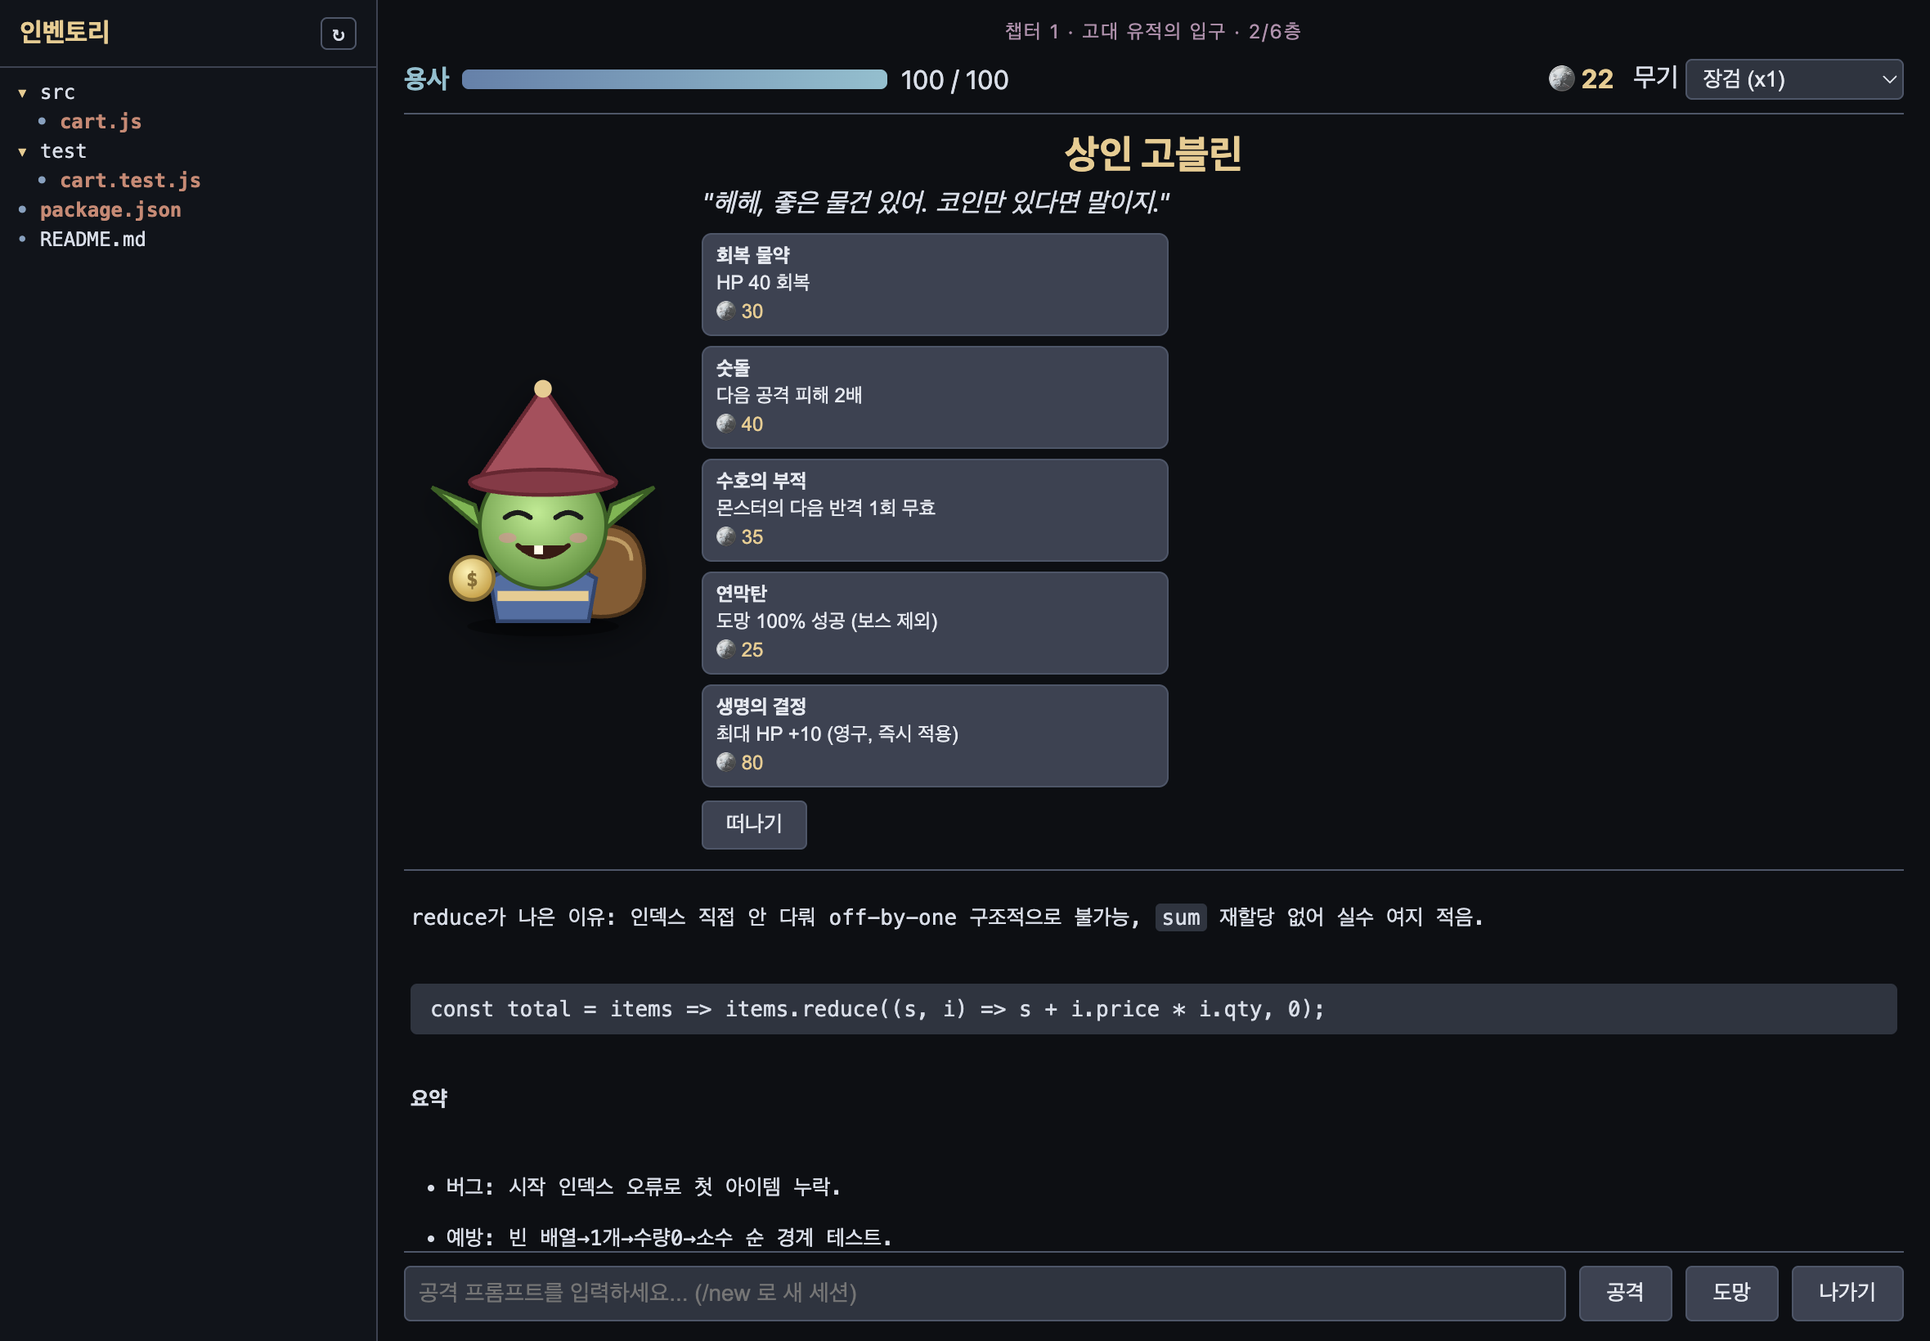
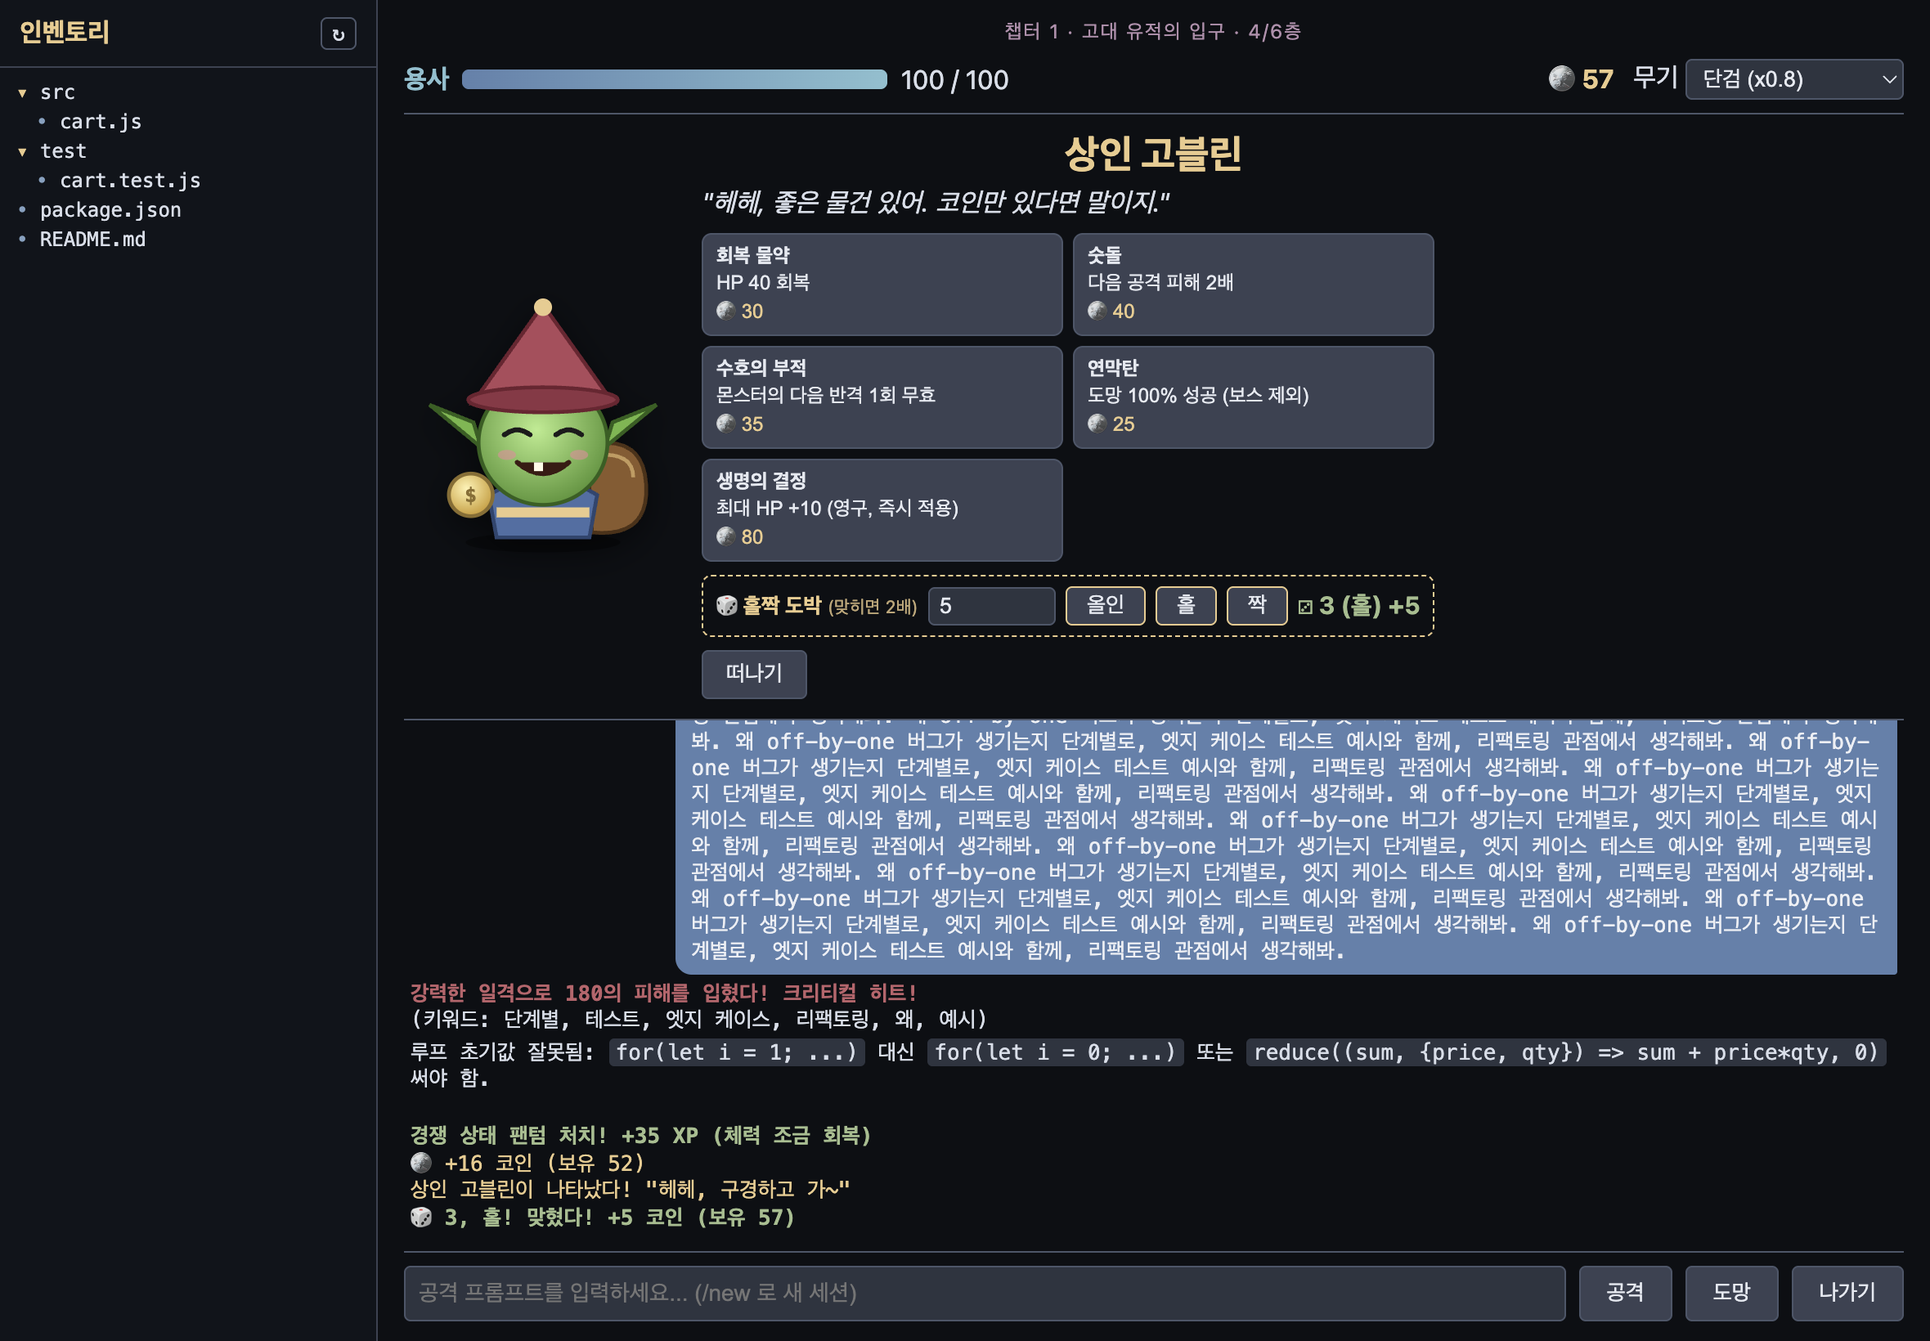
feat(merchant): odd/even dice gambling with coins
/bet odd|even|홀|짝 <coins> at the merchant; win pays double, loss takes the stake.
GUI bet box with all-in, dice result pop; README + merchant screenshot updated.

Changed region(s): [[0.2165, 0.1555, 0.9898, 0.9329], [0.3712, 0.2488, 0.4949, 0.311], [0.0309, 0.1244, 0.0928, 0.1866]]

diff --git a/electron/renderer/renderer.js b/electron/renderer/renderer.js
@@ -57,6 +57,8 @@ const merchantArtEl = $('merchant-art');
 const merchantItemsEl = $('merchant-items');
 const merchantLeaveBtn = $('merchant-leave');
 const exitBtn = $('exit-btn');
+const betAmountInput = $('bet-amount');
+const betResultEl = $('bet-result');
 const exitOverlay = $('exit-overlay');
 const exitConfirmBtn = $('exit-confirm');
 const exitCancelBtn = $('exit-cancel');
@@ -271,6 +273,9 @@ function openMerchant(event) {
   fleeBtn.disabled = true; // nothing to flee from in the shop
   merchantPanel.hidden = false;
   merchantArtEl.innerHTML = merchantSvg();
+  betResultEl.textContent = '';
+  betAmountInput.max = String(coins);
+  betAmountInput.value = String(Math.max(1, Math.min(10, coins)));
   merchantItemsEl.textContent = '';
   for (const item of event.items) {
     const btn = document.createElement('button');
@@ -655,6 +660,27 @@ function renderBattleEvent(event) {
     case 'purchaseFailed':
       appendLog(`살 수 없다: ${event.reason}`, 'error');
       break;
+    case 'betResult': {
+      coins = event.coins;
+      renderCoins();
+      betAmountInput.max = String(coins);
+      const face = '⚀⚁⚂⚃⚄⚅'[event.roll - 1];
+      const parity = event.roll % 2 ? '홀' : '짝';
+      betResultEl.textContent = `${face} ${event.roll} (${parity}) ${event.won ? `+${event.amount}` : `-${event.amount}`}`;
+      betResultEl.className = `bet-result ${event.won ? 'win' : 'lose'}`;
+      void betResultEl.offsetWidth; // restart the pop animation
+      betResultEl.classList.add('rolled');
+      appendLog(
+        event.won
+          ? `🎲 ${event.roll}, ${parity}! 맞혔다! +${event.amount} 코인 (보유 ${event.coins})`
+          : `🎲 ${event.roll}, ${parity}... 틀렸다. -${event.amount} 코인 (보유 ${event.coins}) 상인 고블린: "헤헤헤~"`,
+        event.won ? 'victory' : 'error',
+      );
+      break;
+    }
+    case 'betFailed':
+      appendLog(`걸 수 없다: ${event.reason}`, 'error');
+      break;
     case 'merchantClosed':
       appendLog('상인 고블린: "또 와~"', 'story-line');
       closeMerchant();
@@ -752,6 +778,13 @@ attackForm.addEventListener('submit', (e) => {
 
 fleeBtn.addEventListener('click', () => window.promptBattle.submitPrompt('/flee'));
 merchantLeaveBtn.addEventListener('click', () => window.promptBattle.submitPrompt('/leave'));
+
+const bet = (choice) => window.promptBattle.submitPrompt(`/bet ${choice} ${Math.floor(Number(betAmountInput.value) || 0)}`);
+$('bet-odd').addEventListener('click', () => bet('odd'));
+$('bet-even').addEventListener('click', () => bet('even'));
+$('bet-all').addEventListener('click', () => {
+  betAmountInput.value = String(coins);
+});
 
 exitBtn.addEventListener('click', () => {
   exitOverlay.hidden = false;

diff --git a/src/battle.ts b/src/battle.ts
@@ -38,6 +38,8 @@ export type BattleEvent =
   | { type: 'purchased'; itemId: string; coins: number }
   | { type: 'purchaseFailed'; itemId: string; reason: string }
   | { type: 'merchantClosed' }
+  | { type: 'betResult'; choice: 'odd' | 'even'; roll: number; won: boolean; amount: number; coins: number }
+  | { type: 'betFailed'; reason: string }
   | { type: 'bagChanged'; bag: Record<string, number> }
   | { type: 'itemUsed'; itemId: string }
   | { type: 'itemUseFailed'; itemId: string }
@@ -169,6 +171,26 @@ export async function runDungeon(deps: BattleDeps): Promise<BattleSummary> {
     deps.onBattleEvent({ type: 'itemUsed', itemId: id });
   };
 
+  // The merchant's odd/even dice game: `/bet odd|even|홀|짝 <coins>`.
+  // A win pays the stake back double (net +stake); a loss takes it.
+  const placeBet = (input: string) => {
+    const match = /^\/bet\s+(\S+)\s+(\d+)$/.exec(input);
+    const choice = match && ({ odd: 'odd', 홀: 'odd', even: 'even', 짝: 'even' } as const)[match[1] as 'odd'];
+    const amount = match ? Number(match[2]) : 0;
+    if (!choice) {
+      deps.onBattleEvent({ type: 'betFailed', reason: '홀 또는 짝에 걸어야 한다' });
+      return;
+    }
+    if (amount < 1 || amount > coins) {
+      deps.onBattleEvent({ type: 'betFailed', reason: `1~${coins} 코인 사이로 걸어야 한다` });
+      return;
+    }
+    const roll = Math.floor(random() * 6) + 1;
+    const won = (roll % 2 === 1) === (choice === 'odd');
+    coins += won ? amount : -amount;
+    deps.onBattleEvent({ type: 'betResult', choice, roll, won, amount, coins });
+  };
+
   // Returns false if the player left the dungeon from the shop.
   const visitMerchant = async (): Promise<boolean> => {
     deps.onBattleEvent({ type: 'merchantOpen', coins, items: ITEMS });
@@ -177,6 +199,10 @@ export async function runDungeon(deps: BattleDeps): Promise<BattleSummary> {
       if (raw === null) return false;
       const input = raw.trim();
       if (input === '/quit') return false;
+      if (input.startsWith('/bet ')) {
+        placeBet(input);
+        continue;
+      }
       if (input.startsWith('/buy ')) {
         const id = input.slice('/buy '.length).trim();
         const item = getItem(id);

diff --git a/test/battle.test.ts b/test/battle.test.ts
@@ -487,3 +487,27 @@ test('a resumed session that fails before ever succeeding is dropped for a fresh
   assert.deepEqual(seen, ['stale', undefined]);
   assert.ok(events.some((e) => e.type === 'sessionReset'));
 });
+
+test('odd/even bet at the merchant: a win pays the stake back double', async () => {
+  // rolls: merchant appears (0.1), die = floor(0.4*6)+1 = 3 (odd), then no more merchants
+  const { deps, events } = makeFakeDeps([ONE_SHOT_PROMPT, '/bet odd 5', '/leave', '/quit']);
+  const summary = await runDungeon({ ...deps, random: seq(0.1, 0.4, 0.99) });
+  assert.ok(events.some((e) => e.type === 'betResult' && e.choice === 'odd' && e.roll === 3 && e.won && e.amount === 5 && e.coins === 15));
+  assert.equal(summary.coins, 15, '10 from the clear, +5 net win');
+});
+
+test('a losing bet takes the stake', async () => {
+  // die = floor(0.2*6)+1 = 2 (even) vs odd
+  const { deps, events } = makeFakeDeps([ONE_SHOT_PROMPT, '/bet odd 4', '/leave', '/quit']);
+  const summary = await runDungeon({ ...deps, random: seq(0.1, 0.2, 0.99) });
+  assert.ok(events.some((e) => e.type === 'betResult' && e.roll === 2 && !e.won && e.coins === 6));
+  assert.equal(summary.coins, 6);
+});
+
+test('bets must be a whole amount between 1 and your coins; Korean 홀/짝 work too', async () => {
+  const { deps, events } = makeFakeDeps([ONE_SHOT_PROMPT, '/bet odd 11', '/bet odd 0', '/bet red 1', '/bet 짝 10', '/leave', '/quit']);
+  const summary = await runDungeon({ ...deps, random: seq(0.1, 0.9, 0.99) }); // die 6 = even
+  assert.equal(events.filter((e) => e.type === 'betFailed').length, 3);
+  assert.ok(events.some((e) => e.type === 'betResult' && e.choice === 'even' && e.won && e.coins === 20));
+  assert.equal(summary.coins, 20);
+});

diff --git a/src/cli-render.ts b/src/cli-render.ts
@@ -64,12 +64,19 @@ export function formatBattleEvent(event: BattleEvent): string {
         colorize(`\nA merchant goblin appears! You have ${event.coins} coins.`, 'bold') +
         '\n' +
         event.items.map((item) => `  /buy ${item.id} — ${item.name}: ${item.description} (${item.price})`).join('\n') +
-        '\n  /leave to move on\n'
+        '\n  /bet odd|even <coins> to gamble, /leave to move on\n'
       );
     case 'purchased':
       return colorize(`Bought ${event.itemId}. ${event.coins} coins left.`, 'green') + '\n';
     case 'purchaseFailed':
       return colorize(`Can't buy ${event.itemId}: ${event.reason}`, 'red') + '\n';
+    case 'betResult':
+      return colorize(
+        `Die shows ${event.roll} (${event.roll % 2 ? 'odd' : 'even'}) — you ${event.won ? `win ${event.amount}` : `lose ${event.amount}`}. ${event.coins} coins.`,
+        event.won ? 'green' : 'red',
+      ) + '\n';
+    case 'betFailed':
+      return colorize(`Bet refused: ${event.reason}`, 'red') + '\n';
     case 'merchantClosed':
       return colorize('The merchant waves goodbye.', 'cyan') + '\n';
     case 'bagChanged':

diff --git a/electron/renderer/style.css b/electron/renderer/style.css
@@ -676,3 +676,57 @@ body {
   background: #bf616a;
   border-color: #bf616a;
 }
+
+.gamble {
+  display: flex;
+  flex-wrap: wrap;
+  align-items: center;
+  gap: 6px;
+  margin-bottom: 8px;
+  padding: 6px 8px;
+  border: 1px dashed #ebcb8b;
+  border-radius: 6px;
+}
+.gamble-title {
+  color: #ebcb8b;
+  font-weight: bold;
+  font-size: 13px;
+}
+.gamble-title small {
+  font-weight: normal;
+  opacity: 0.8;
+}
+#bet-amount {
+  width: 64px;
+  padding: 3px 6px;
+  background: #2e3440;
+  color: #e5e9f0;
+  border: 1px solid #4c566a;
+  border-radius: 4px;
+}
+.gamble button {
+  padding: 3px 12px;
+  background: #3b4252;
+  color: #e5e9f0;
+  border: 1px solid #ebcb8b;
+  border-radius: 4px;
+  cursor: pointer;
+}
+.bet-result {
+  font-weight: bold;
+  font-size: 15px;
+}
+.bet-result.win {
+  color: #a3be8c;
+}
+.bet-result.lose {
+  color: #bf616a;
+}
+.bet-result.rolled {
+  animation: dice-pop 0.4s ease-out;
+}
+@keyframes dice-pop {
+  0% { transform: scale(0.4) rotate(-90deg); opacity: 0; }
+  70% { transform: scale(1.25) rotate(10deg); opacity: 1; }
+  100% { transform: scale(1) rotate(0); }
+}

diff --git a/electron/renderer/index.html b/electron/renderer/index.html
@@ -71,6 +71,14 @@
             <div>
               <p class="merchant-greeting">"헤헤, 좋은 물건 있어. 코인만 있다면 말이지."</p>
               <div id="merchant-items" class="merchant-items"></div>
+              <div class="gamble">
+                <span class="gamble-title">🎲 홀짝 도박 <small>(맞히면 2배)</small></span>
+                <input type="number" id="bet-amount" min="1" step="1" value="10" />
+                <button type="button" id="bet-all">올인</button>
+                <button type="button" id="bet-odd">홀</button>
+                <button type="button" id="bet-even">짝</button>
+                <span id="bet-result" class="bet-result"></span>
+              </div>
               <button type="button" id="merchant-leave">떠나기</button>
             </div>
           </div>

diff --git a/test/cli-render.test.ts b/test/cli-render.test.ts
@@ -75,6 +75,8 @@ test('every event type formats to a string (never undefined, which would crash s
     { type: 'purchased', itemId: 'potion', coins: 0 },
     { type: 'purchaseFailed', itemId: 'crystal', reason: 'poor' },
     { type: 'merchantClosed' },
+    { type: 'betResult', choice: 'odd', roll: 3, won: true, amount: 5, coins: 15 },
+    { type: 'betFailed', reason: 'x' },
     { type: 'bagChanged', bag: { potion: 1 } },
     { type: 'itemUsed', itemId: 'potion' },
     { type: 'itemUseFailed', itemId: 'potion' },

diff --git a/README.md b/README.md
@@ -15,7 +15,7 @@
 - **보기 편한 AI 응답** — 마크다운으로 렌더링되고, AI가 질문 + 목록으로 물어보면 클릭 가능한 선택지로 바뀐다.
 - **세션 관리** — 기본은 새 Claude 세션으로 시작. 폴더를 고를 때 그 폴더의 이전 세션이 있으면 "이전 세션 이어가기"를 선택할 수 있다. 컨텍스트가 80%를 넘으면 새 세션으로 이어갈 수 있는 `/new ...` 프롬프트를 띄워준다.
 - **대화 기록** — 내가 친 프롬프트와 AI 답변이 폴더별로 저장되고, 다음에 그 폴더로 들어가면 이전 기록이 먼저 보인다.
-- **코인과 상인 고블린** — 층을 클리어하면 코인 획득 (보스는 3배). 클리어 후 가끔(30%) 상인 고블린이 나타난다: 회복 물약(HP 40), 숫돌(다음 공격 2배), 수호의 부적(반격 1회 무효), 연막탄(도망 100%), 생명의 결정(최대 HP +10 영구). 가방의 아이템은 턴 소모 없이 사용.
+- **코인과 상인 고블린** — 층을 클리어하면 코인 획득 (보스는 3배). 클리어 후 가끔(30%) 상인 고블린이 나타난다: 회복 물약(HP 40), 숫돌(다음 공격 2배), 수호의 부적(반격 1회 무효), 연막탄(도망 100%), 생명의 결정(최대 HP +10 영구). 가방의 아이템은 턴 소모 없이 사용. 상인 앞에서 **홀짝 도박**도 가능: 코인을 걸고 홀/짝을 고르면 주사위를 굴려 맞히면 2배, 틀리면 건 코인을 잃는다.
 - **도망 / 나가기** — 도망은 50% 확률: 성공하면 보상 없이 다음 층, 실패하면 한 턴을 날리고 반격을 맞는다. 보스에게선 도망 불가. 나가기 버튼은 "오늘 모험 종료하기"(진행 층수·코인·가방·세션 저장, 다음에 그 층부터 이어하기)와 "이어하기"(계속 플레이) 중 선택.
 
 ## 화면 둘러보기
@@ -39,7 +39,7 @@
 ### 3. 상인 고블린
 ![상인 고블린](docs/screenshots/merchant.png)
 
-층을 클리어하면 가끔 나타난다. 아이템을 클릭하면 코인으로 구매하고, `떠나기`로 다음 층으로 간다. 상인 앞에서 그냥 프롬프트를 치면 상점을 닫고 다음 몬스터를 그 프롬프트로 바로 공격한다.
+층을 클리어하면 가끔 나타난다. 아이템을 클릭하면 코인으로 구매한다. 아래 🎲 홀짝 도박에서 걸 코인을 정하고(`올인`도 가능) `홀`/`짝`을 누르면 주사위 결과가 바로 나온다. 다 끝나면 `떠나기`로 다음 층으로 간다. 상인 앞에서 그냥 프롬프트를 치면 상점을 닫고 다음 몬스터를 그 프롬프트로 바로 공격한다.
 
 ### 4. 나가기
 ![나가기](docs/screenshots/exit.png)
@@ -67,7 +67,7 @@ npm link
 promptbattle --difficulty normal
 ```
 
-작업할 프로젝트 폴더 안에서 실행. `/quit`로 나가기, `/flee`로 도망(50%), `/new <프롬프트>`로 새 세션 시작, `/use <아이템>`으로 아이템 사용, 상인 앞에서는 `/buy <아이템>` / `/leave`. Node.js 22.18.0 이상 필요 (TypeScript를 빌드 없이 바로 실행). npm에 배포된 패키지를 `npm install -g`로 설치하면 동작하지 않는다 — Node가 `node_modules` 안의 `.ts`는 실행하지 않기 때문. clone 후 `npm link`로 설치할 것.
+작업할 프로젝트 폴더 안에서 실행. `/quit`로 나가기, `/flee`로 도망(50%), `/new <프롬프트>`로 새 세션 시작, `/use <아이템>`으로 아이템 사용, 상인 앞에서는 `/buy <아이템>`, `/bet 홀|짝 <코인>`, `/leave`. Node.js 22.18.0 이상 필요 (TypeScript를 빌드 없이 바로 실행). npm에 배포된 패키지를 `npm install -g`로 설치하면 동작하지 않는다 — Node가 `node_modules` 안의 `.ts`는 실행하지 않기 때문. clone 후 `npm link`로 설치할 것.
 
 ## 설정
 

diff --git a/README.en.md b/README.en.md
@@ -15,7 +15,7 @@ A turn-based RPG wrapped around real AI coding. Every prompt you type is an atta
 - **Readable AI output** — replies render as markdown; a question followed by a list becomes clickable choices.
 - **Sessions** — games start a fresh Claude session by default; when a folder has a saved session you can choose to resume it. When the context passes 80%, the game shows a ready-made `/new ...` prompt to continue in a new session.
 - **Chat history** — your prompts and the AI's replies are saved per folder and shown when you open that folder again.
-- **Coins & merchant goblin** — clearing a floor earns coins (bosses pay 3x). After a clear, a merchant goblin sometimes (30%) appears selling a potion (+40 HP), whetstone (next attack x2), amulet (blocks one counterattack), smoke bomb (guaranteed escape) and life crystal (+10 max HP, permanent). Bag items are free actions.
+- **Coins & merchant goblin** — clearing a floor earns coins (bosses pay 3x). After a clear, a merchant goblin sometimes (30%) appears selling a potion (+40 HP), whetstone (next attack x2), amulet (blocks one counterattack), smoke bomb (guaranteed escape) and life crystal (+10 max HP, permanent). Bag items are free actions. The merchant also runs an **odd/even dice game**: bet coins on odd or even, win double or lose the stake.
 - **Flee vs. Exit** — fleeing has a 50% chance: success skips to the next floor with no reward, failure wastes the turn and draws a counterattack. You can't flee a boss. The Exit button offers "end today's adventure" (saves floor, coins, bag and session so you resume from that floor) or "keep playing".
 
 ## Tour
@@ -39,7 +39,7 @@ The capture is a real turn: the prompt asked (in Korean) to fix a bug in `cart.j
 ### 3. Merchant goblin
 ![Merchant goblin](docs/screenshots/merchant.png)
 
-The merchant sometimes shows up after a clear. Click an item to buy it with coins, or `떠나기` (leave) to move on. Typing a prompt here closes the shop and attacks the next monster with it.
+The merchant sometimes shows up after a clear. Click an item to buy it with coins. In the 🎲 odd/even box, set a stake (or `올인`, all-in) and press `홀` (odd) / `짝` (even) to roll. When done, press `떠나기` (leave) to move on. Typing a prompt here closes the shop and attacks the next monster with it.
 
 ### 4. Exit
 ![Exit dialog](docs/screenshots/exit.png)
@@ -67,7 +67,7 @@ npm link
 promptbattle --difficulty normal
 ```
 
-Run it inside the project you want to work on. Type `/quit` to leave, `/flee` to try escaping (50%), `/new <prompt>` to start a fresh session, `/use <item>` to use an item, and `/buy <item>` / `/leave` at the merchant. Requires Node.js >= 22.18.0 (native TypeScript execution, no build step). A published `npm install -g` copy won't work — Node refuses to type-strip `.ts` under `node_modules` — so use `npm link` from a clone.
+Run it inside the project you want to work on. Type `/quit` to leave, `/flee` to try escaping (50%), `/new <prompt>` to start a fresh session, `/use <item>` to use an item, and `/buy <item>`, `/bet odd|even <coins>`, `/leave` at the merchant. Requires Node.js >= 22.18.0 (native TypeScript execution, no build step). A published `npm install -g` copy won't work — Node refuses to type-strip `.ts` under `node_modules` — so use `npm link` from a clone.
 
 ## Setup
 
